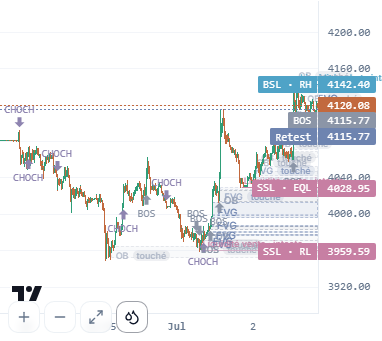
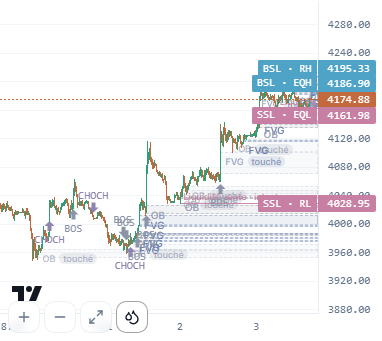
docs(audits): preuves visuelles post-merge main (géométrie temps+prix PR #22)
Captures après/toggle rafraîchies sur le code réconcilié avec main
(b803e04 + 903e313) ; 391 tests verts.

diff --git a/docs/audits/LIQUIDITY_DISPLAY_POLISH_2026_07_02.md b/docs/audits/LIQUIDITY_DISPLAY_POLISH_2026_07_02.md
@@ -52,10 +52,17 @@ Les canvases de lightweight-charts portent leur propre `z-index` (1-2) : le
 canvas de l'axe temporel **interceptait les clics** sur les contrôles bas-gauche
 (zoom compris, préexistant). Ajout de `z-10` sur le conteneur de contrôles.
 
+## Réconciliation main
+
+main a avancé pendant la session (PR #21 `b803e04` filtre minTime des markers,
+PR #22 `903e313` géométrie pure temps+prix + clipping par gouttière) →
+**mergé, pas écrasé** : les segments liquidité adoptent la même géométrie non
+clampée et se clippent au bord du plot via le conteneur.
+
 ## Vérification
 
 - `tsc --noEmit` : 0 erreur. `next build` : OK.
-- Vitest : **43 fichiers / 386 tests verts** (377 de main + 9 nouveaux sur le
+- Vitest : **43 fichiers / 391 tests verts** post-merge (9 nouveaux sur le
   builder : ancres, premier contact, broken par défaut, intactOnly réversible).
 - Visuel (backend live XAUUSD M15, données réelles avec les 3 états) :
   - avant : `liquidity_polish_avant.png` (traits pleine largeur) ;